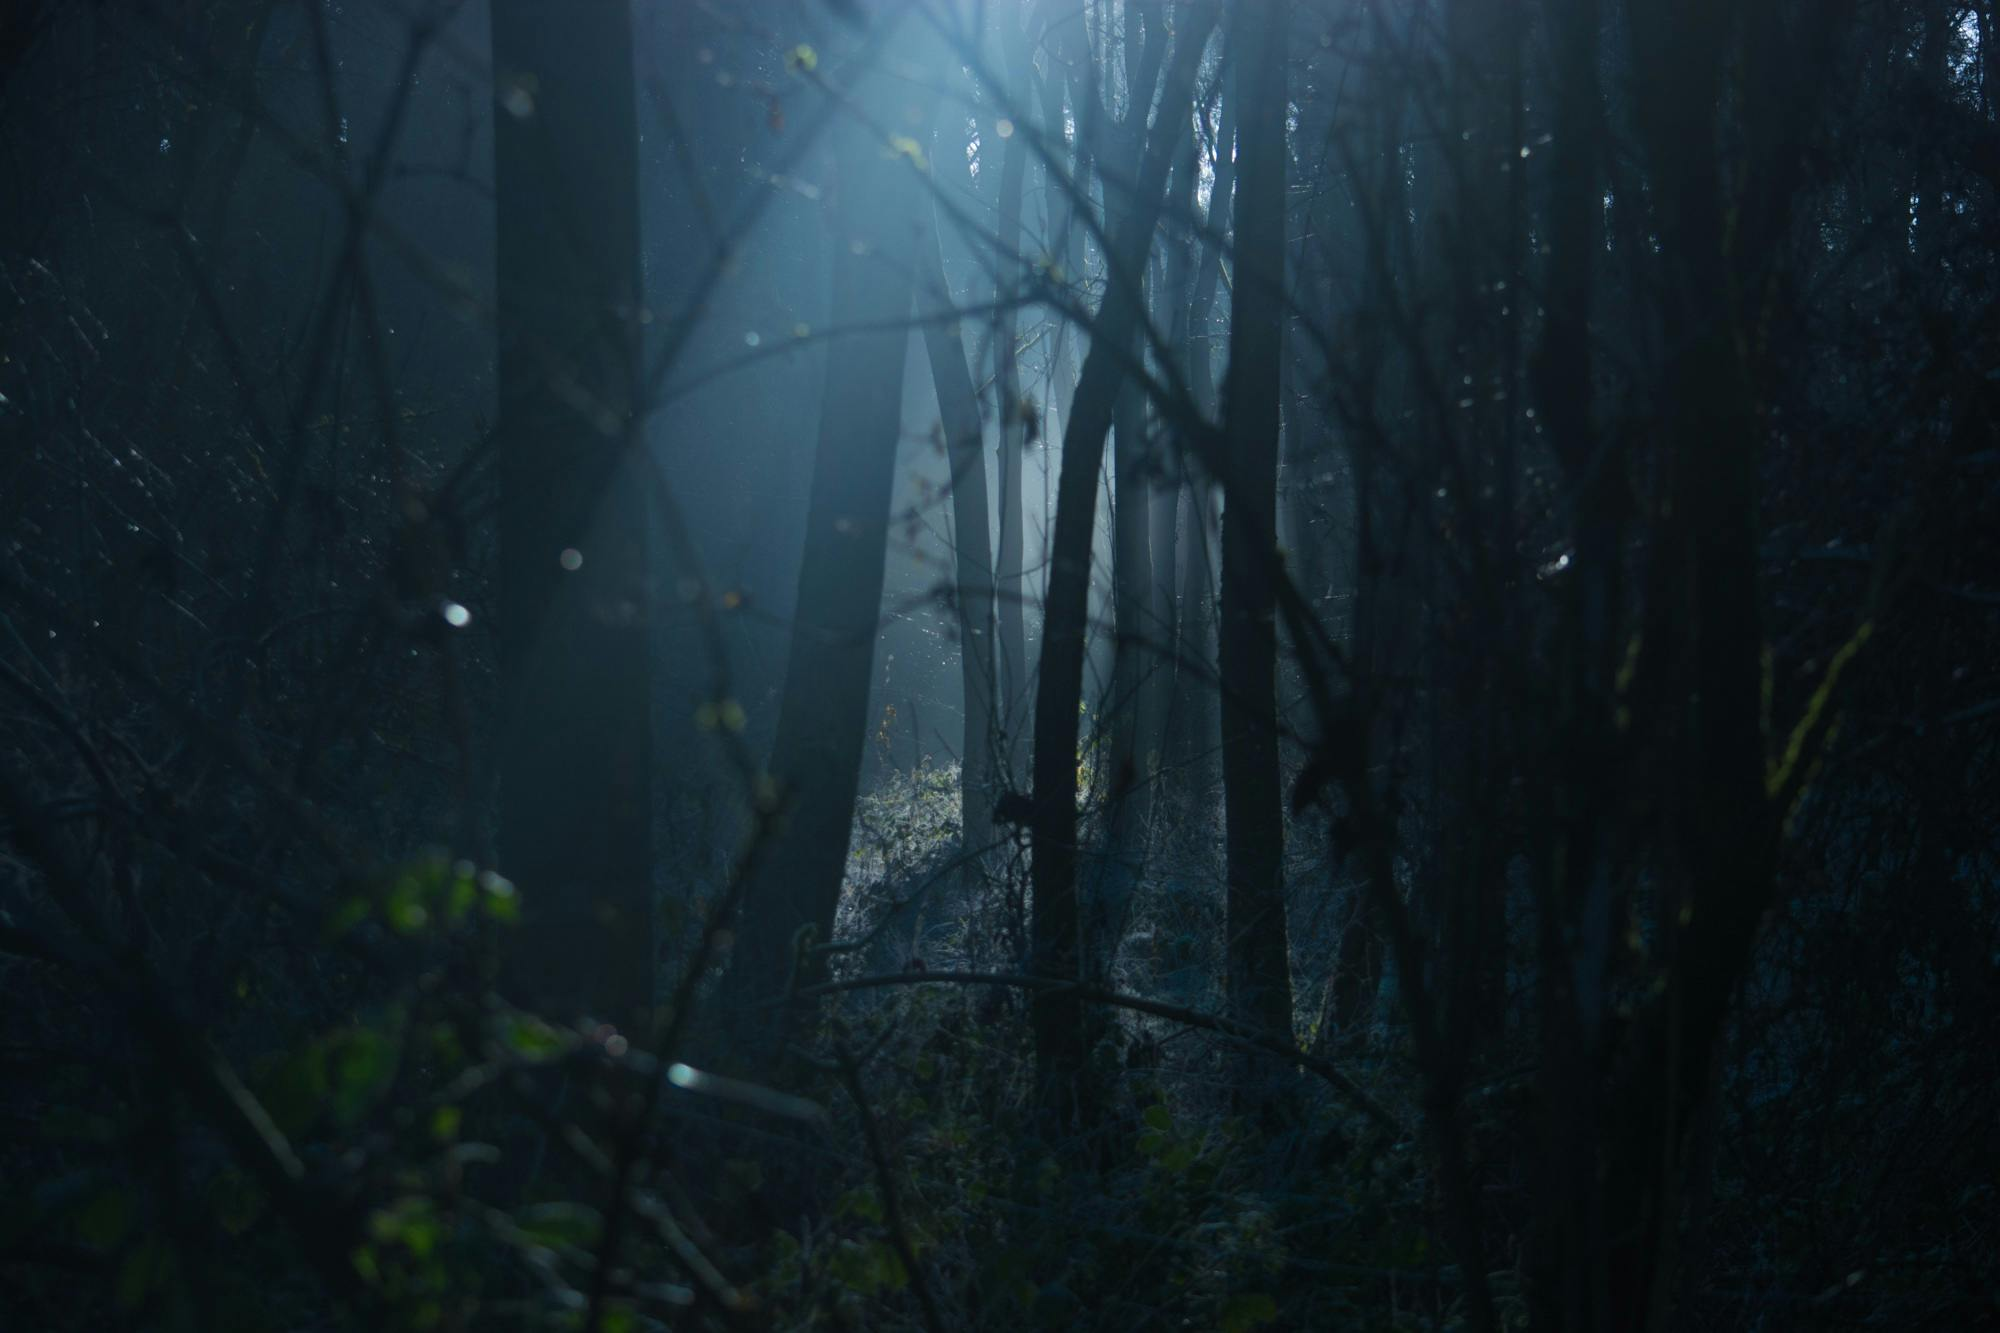
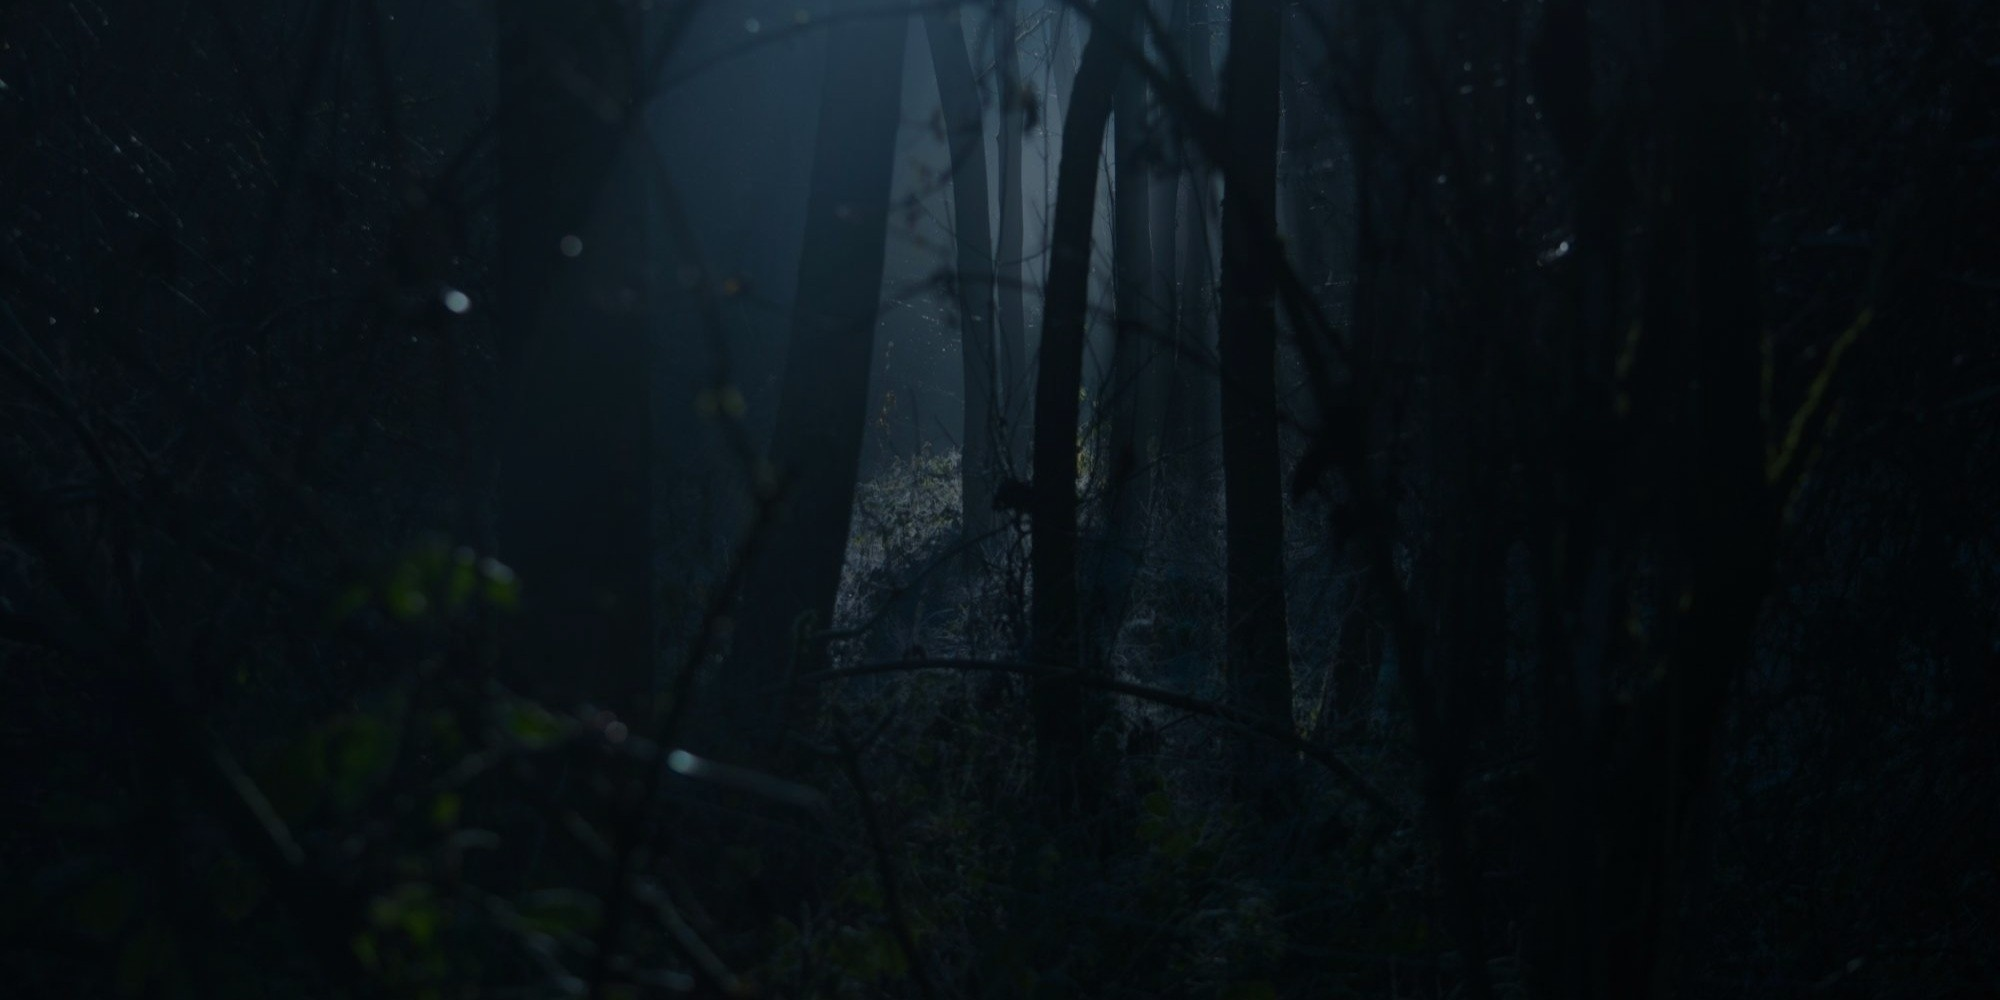
Updated hero-bg

diff --git a/styles.css b/styles.css
@@ -148,11 +148,7 @@ img {
 }
 
 .hero {
-  background: linear-gradient(
-    rgba(0, 0, 0, 0.5),
-    rgba(0, 0, 0, 0.4))
-     url('./images/hero-bg.jpg') center no-repeat;
-  background-size: cover;
+  background: #000 url('./images/hero-bg.jpg') center center/cover no-repeat;
   padding: 11.5rem 2rem 8rem
 }
 
